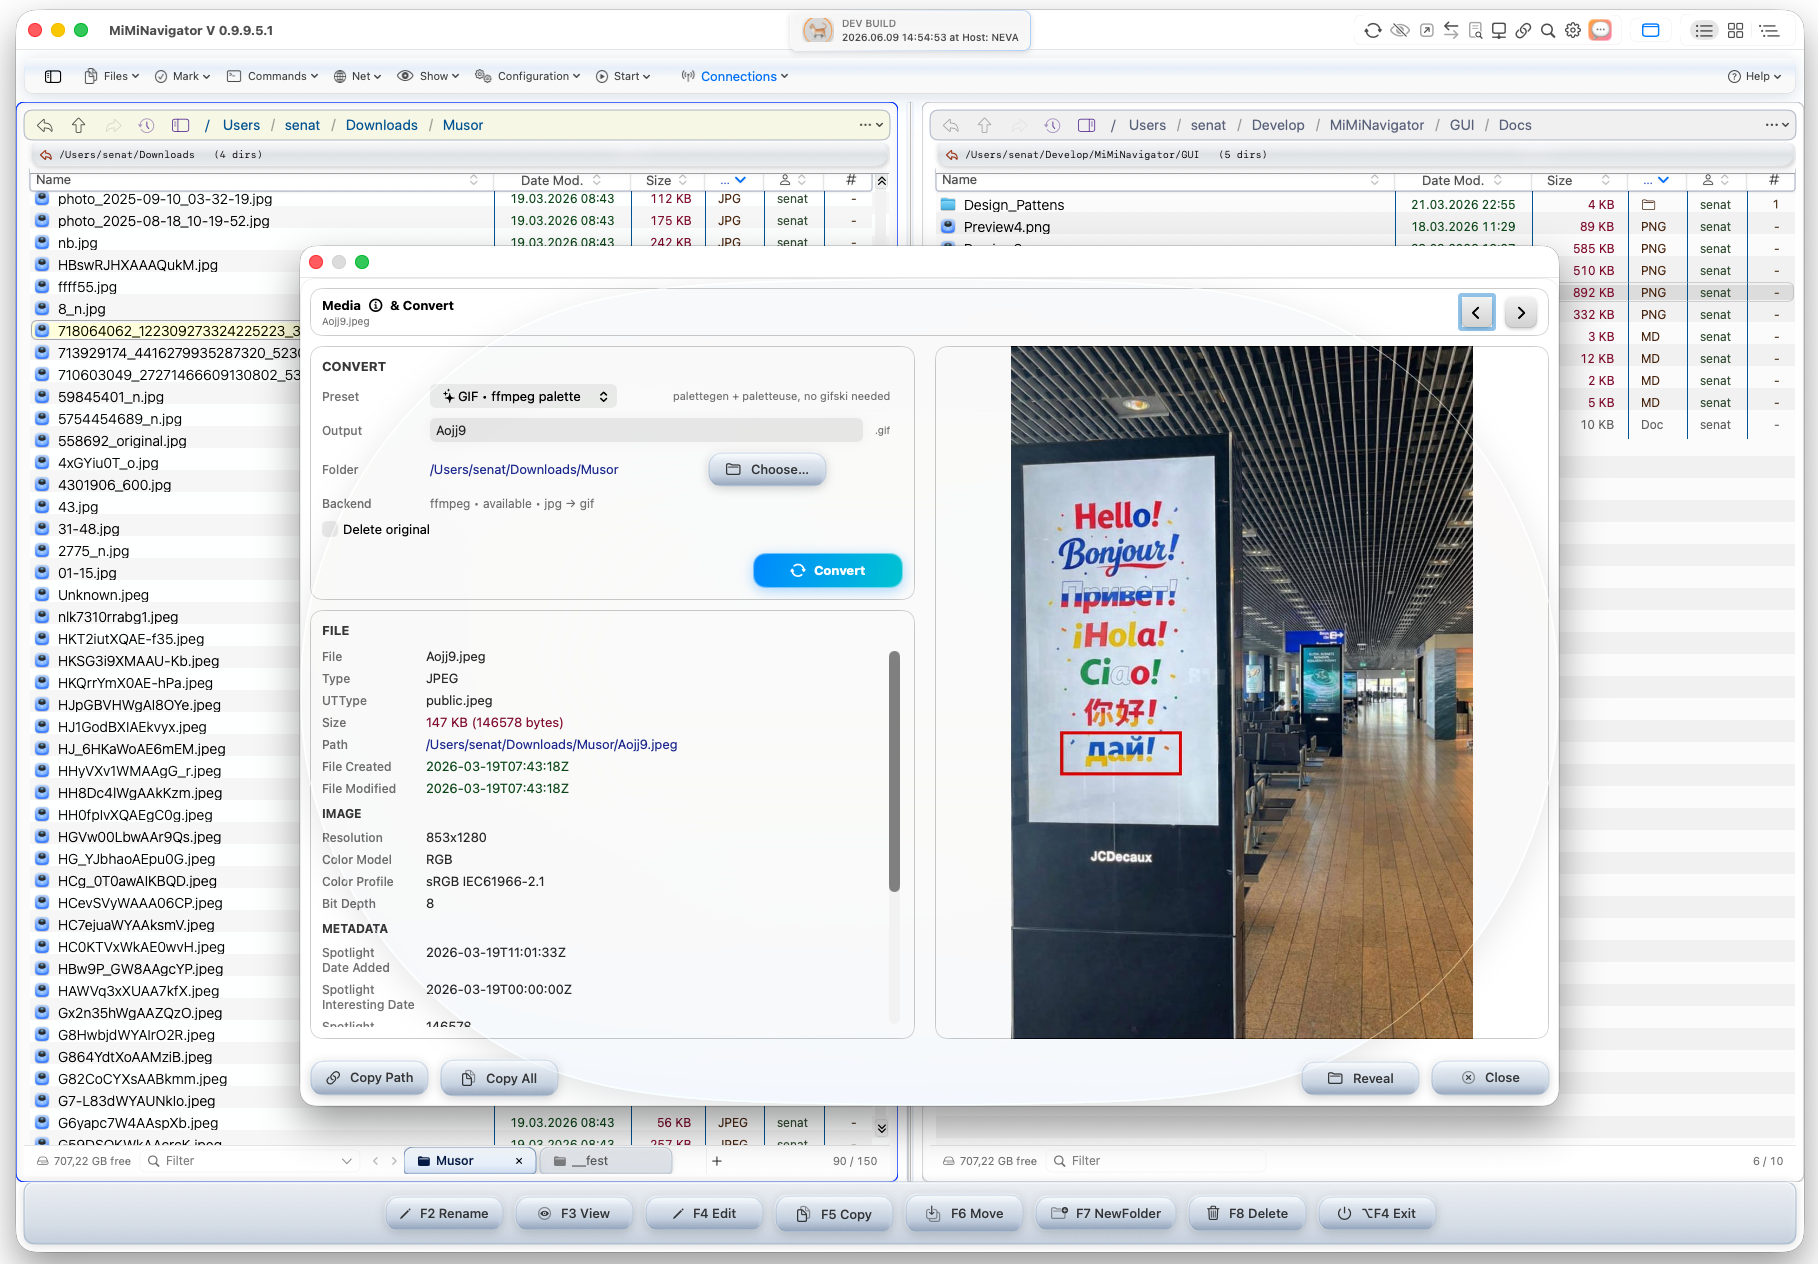
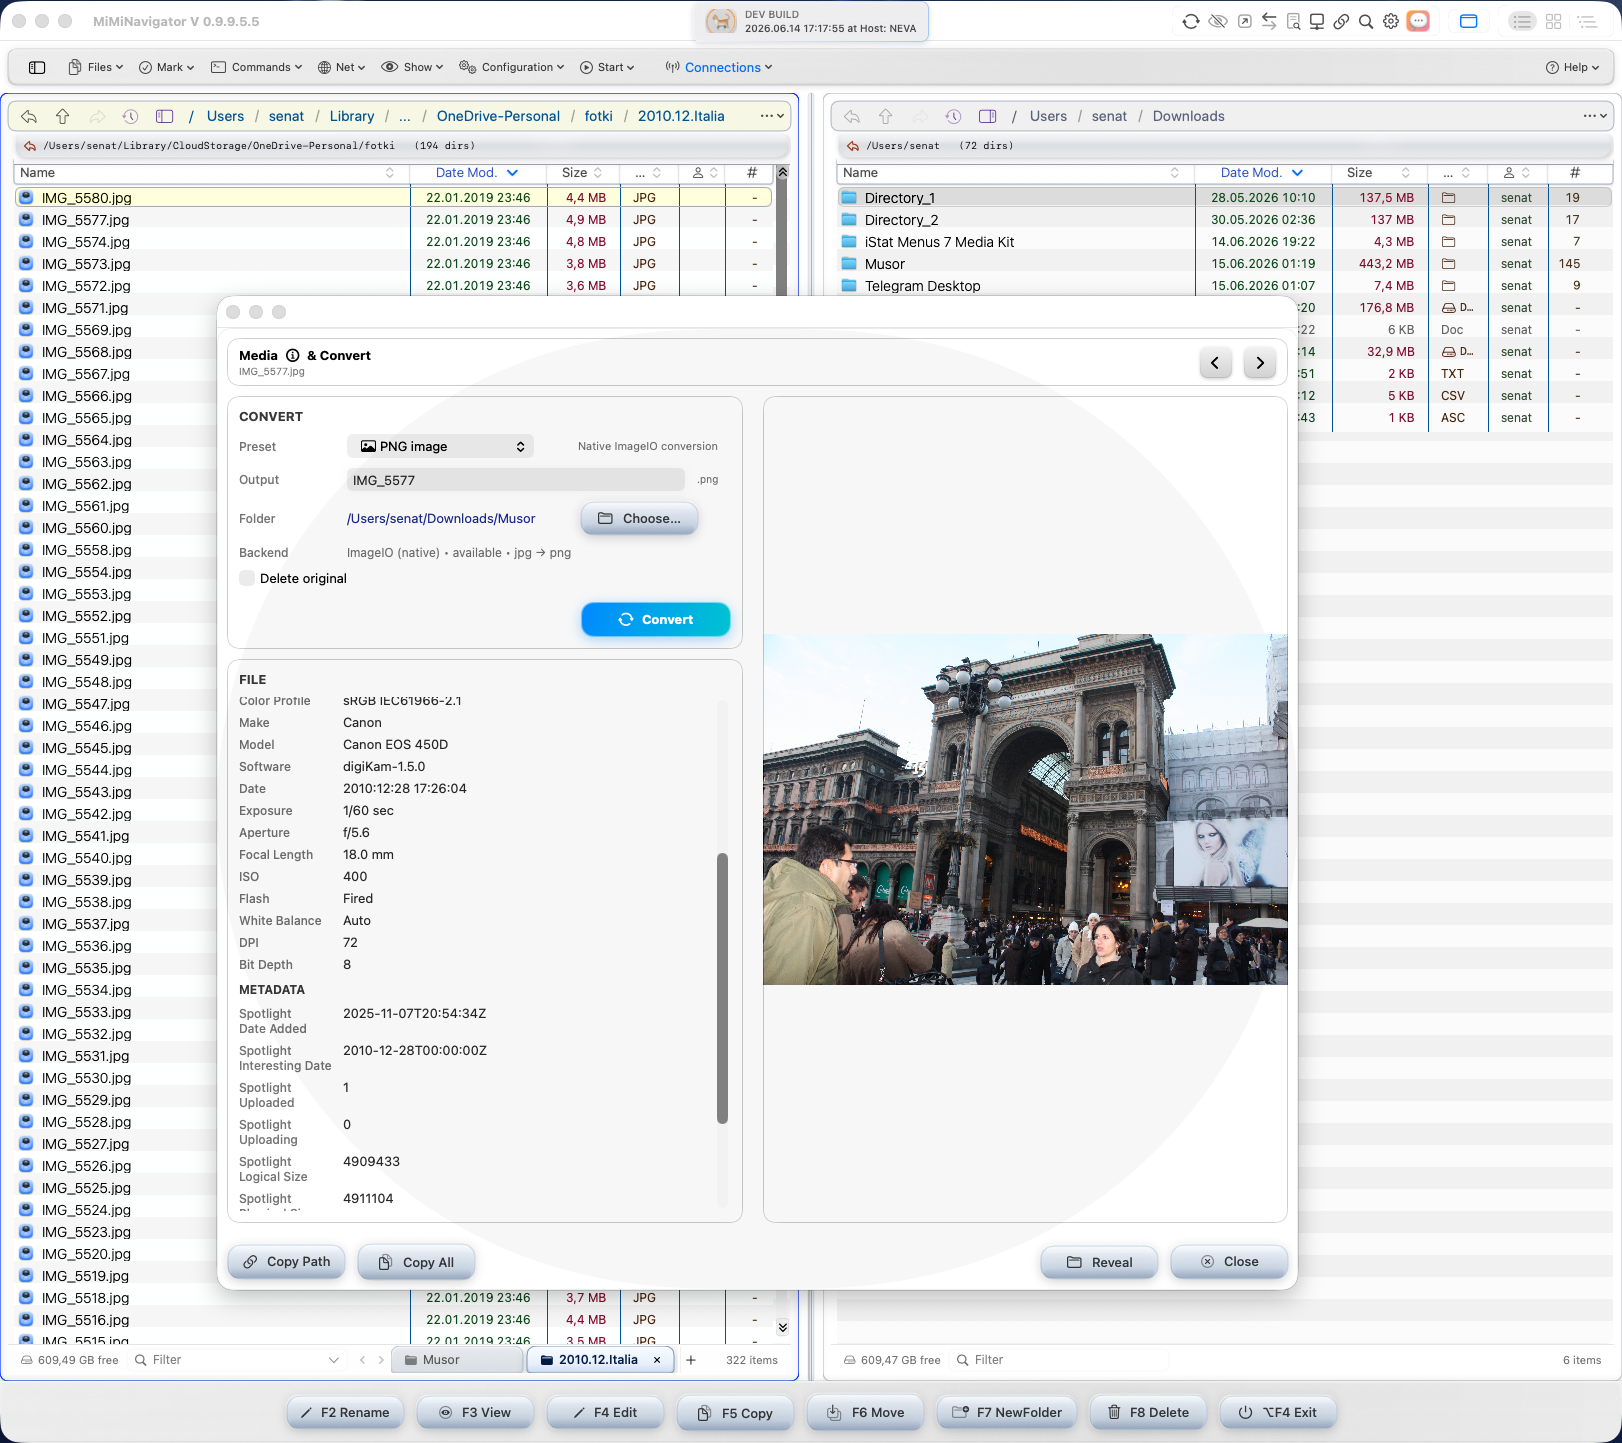
docu ewfresh

diff --git a/README.md b/README.md
@@ -431,13 +431,13 @@ When a cloud desktop client syncs the `Public` folder locally, MiMiNavigator exp
 - [ ] Scroll-to-selection after rename/create operations
 
 ### Planned 🎯
-- [ ] Three-panel layout option
+- [ ] ~~Three-panel layout option~~  for why?
 - [x] FTP/SFTP connectivity (Citadel SFTP + curl-based FTP)
 - [x] Network filesystem (SMB/AFP mount, Network Neighborhood discovery)
-- [ ] More cloud provider share-link APIs beyond Google Drive and Dropbox
-- [ ] Advanced file comparison
-- [ ] Plugin system — see [Plugin Development Blue Paper](GUI/Docs/PLUGIN_BLUE_PAPER.md)
-- [ ] App Store release
+- [x] More cloud provider share-link APIs beyond Google Drive and Dropbox
+- [x ] Advanced file comparison 
+- [ ] ~~Plugin system — see [Plugin Development Blue Paper](GUI/Docs/PLUGIN_BLUE_PAPER.md)~~ no need more
+- [ ] ~~App Store release~~ not need
 
 ### Competitive Feature Gaps
 